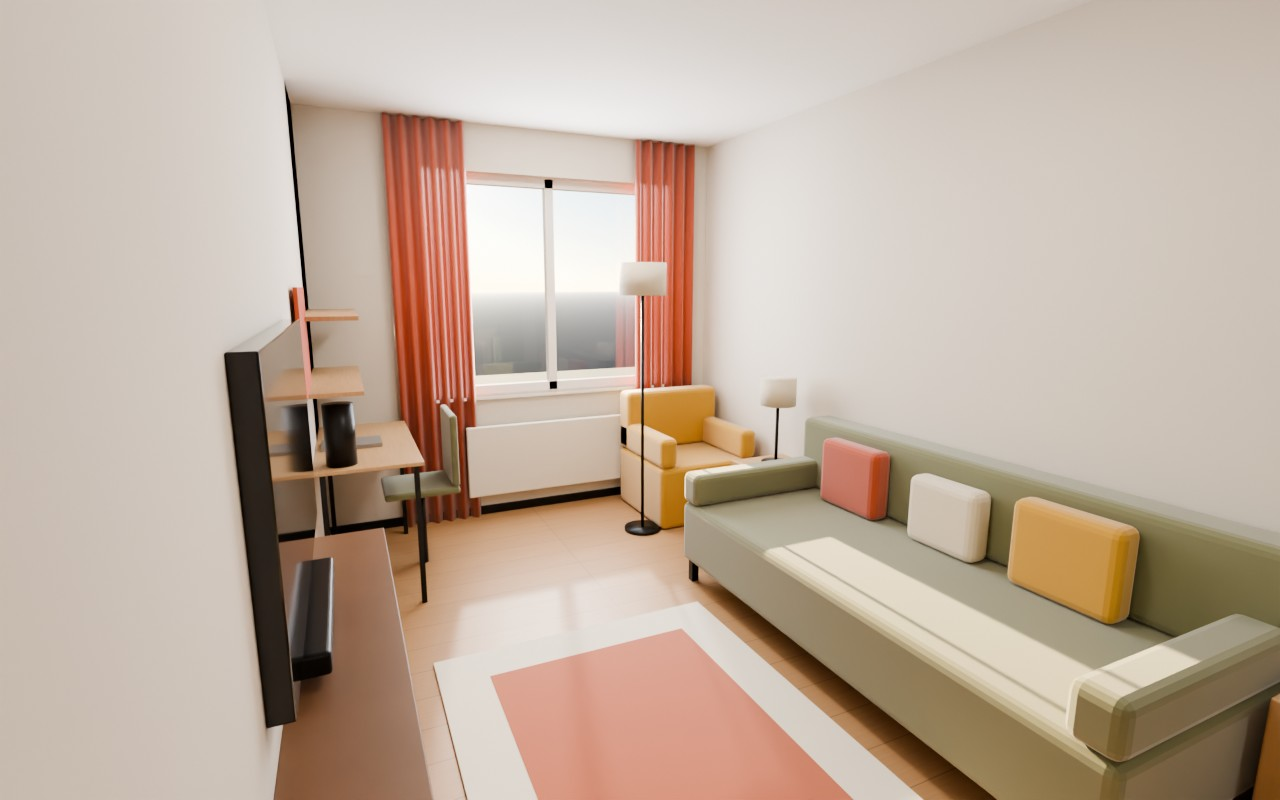
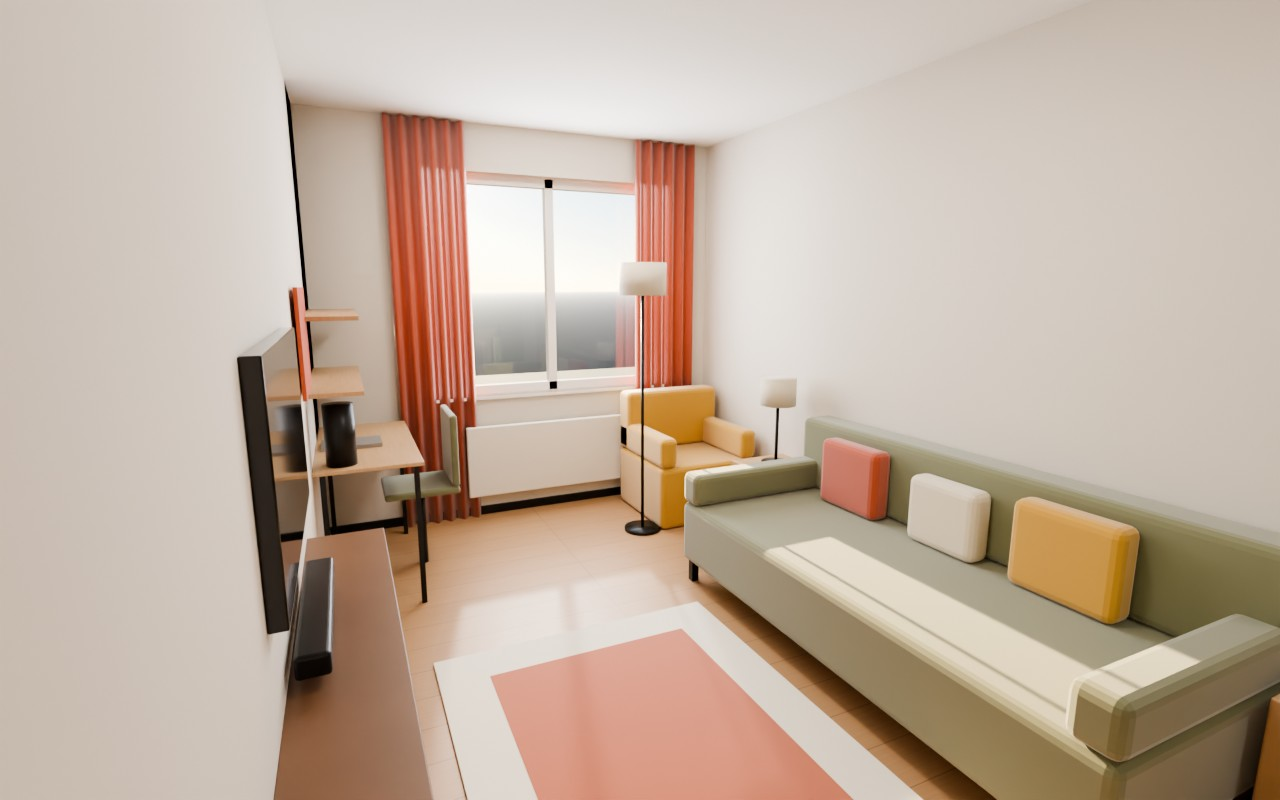
Рендеры комнаты с ТВ 43″
Claude-Session: https://claude.ai/code/session_01ViHPHpDAyTN4djv9p8nnoH

Changed region(s): [[0.1562, 0.4062, 0.25, 0.9375]]

diff --git a/Проект EVO/Дизайн-проект/renders.html b/Проект EVO/Дизайн-проект/renders.html
@@ -34,7 +34,7 @@ figcaption span{color:var(--muted);font-size:14px;min-width:0}
 </header>
 <figure><img src="r/room.jpg" alt="Комната: диван, ТВ, рабочий стол, терракотовые шторы" loading="lazy"><figcaption><b>Комната</b><span>Оливковый диван 2200 между тумбами, терракотовые шторы, горчичное кресло у окна, стол 1100×500 у стены.</span></figcaption></figure>
 <div class="grid">
-  <figure><img src="r/sofa.jpg" alt="Вид с дивана на ТВ-стену" loading="lazy"><figcaption><b>Вид с дивана</b><span>ТВ 55″, подвесная тумба 1500×270 на высоте 300, рабочее место справа.</span></figcaption></figure>
+  <figure><img src="r/sofa.jpg" alt="Вид с дивана на ТВ-стену" loading="lazy"><figcaption><b>Вид с дивана</b><span>ТВ 43″ (центр h1200), подвесная тумба 1500×270 на высоте 300, саундбар на тумбе, рабочее место справа.</span></figcaption></figure>
   <figure><img src="r/wardrobe.jpg" alt="Гардеробная с открытыми дверями" loading="lazy"><figcaption><b>Гардеробная</b><span>Сетчатая система: колонна полок и корзин, две секции со штангами. Складные двери открыты.</span></figcaption></figure>
 </div>
 <figure><img src="r/kitchen.jpg" alt="Кухня: гарнитур, мойка у угла, вытяжка" loading="lazy"><figcaption><b>Кухня</b><span>Белый низ, орех наверху до потолка, наклонная вытяжка Zibal, мойка у угла, подсветка под шкафами.</span></figcaption></figure>
